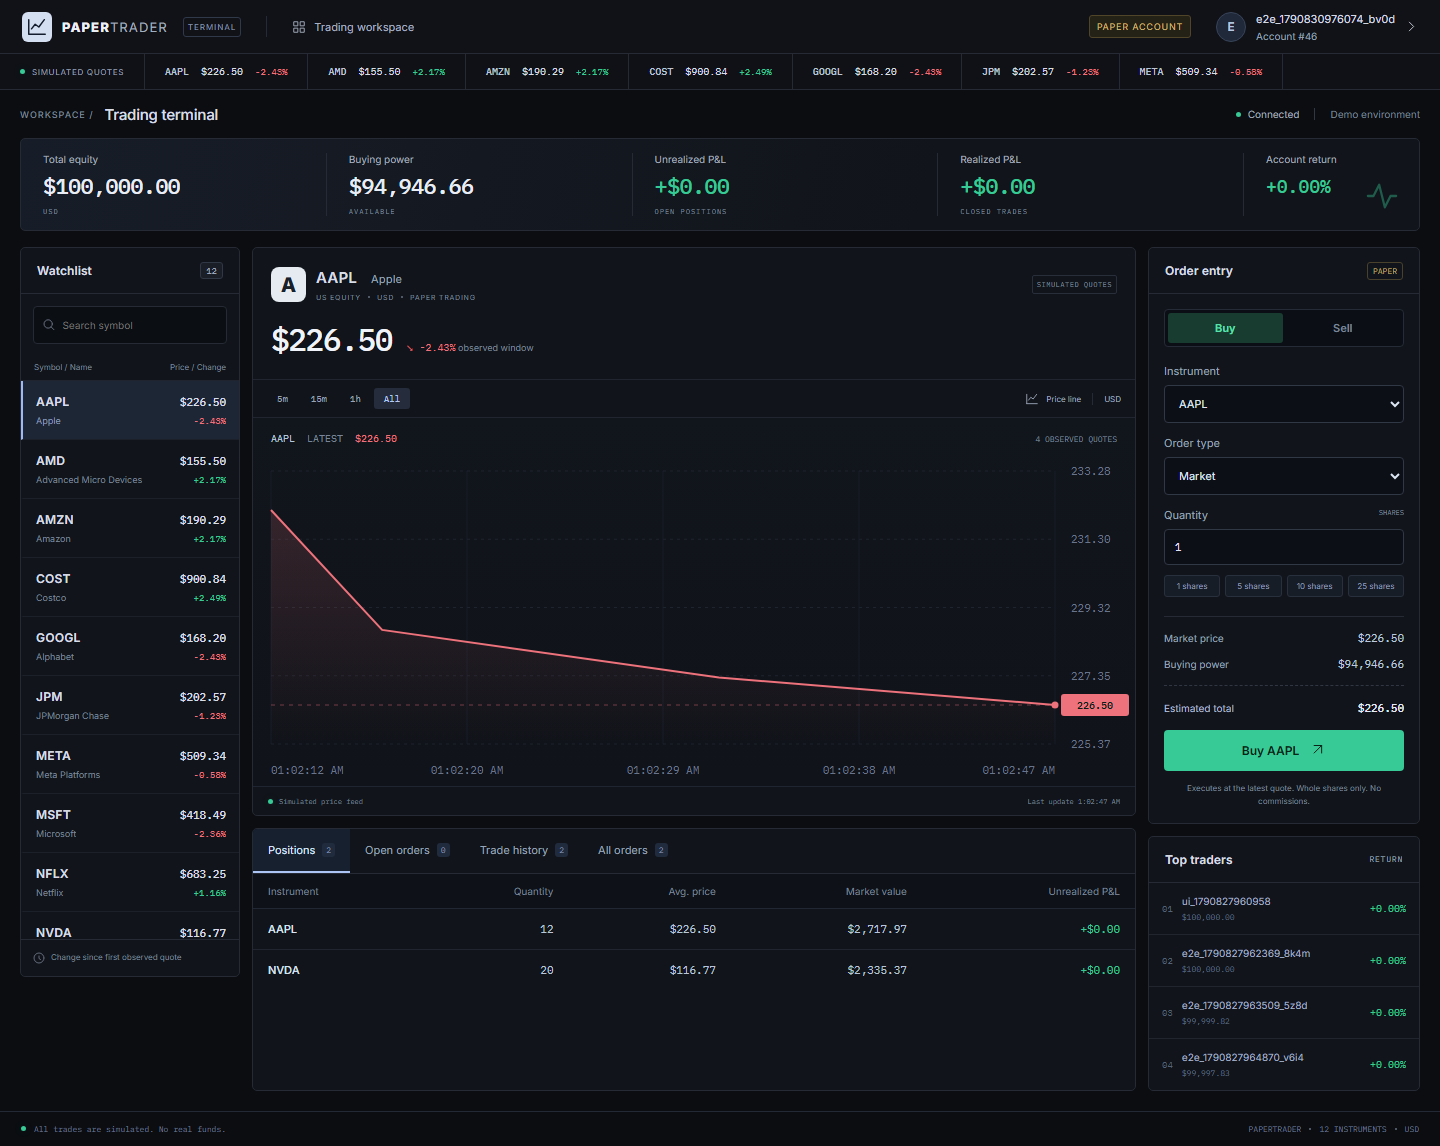
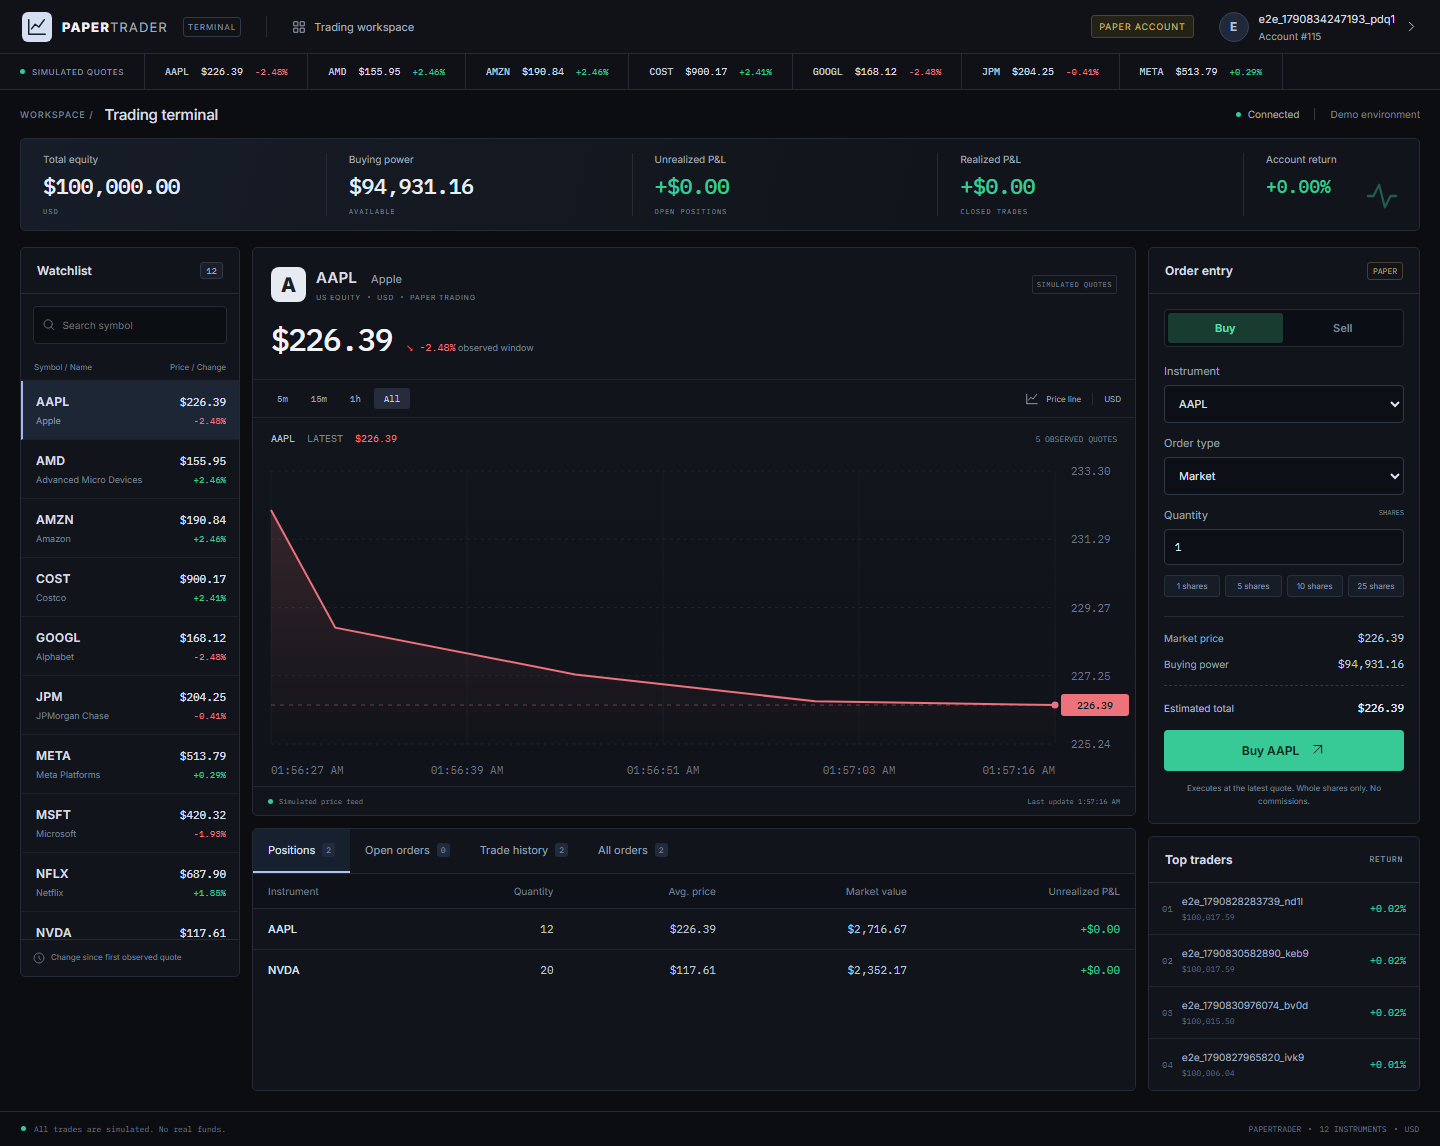
docs: refresh setup guidance and product screenshots

diff --git a/README.md b/README.md
@@ -1,16 +1,23 @@
-# paper-trader
+# PaperTrader
 
-A local paper-trading desk built with Java 21, Spring Boot, Postgres, and React. Place market and limit orders, watch fills arrive in two browser tabs, and track realized and unrealized P&L.
+[![Build and test](https://github.com/nishantshah0/paper-trader/actions/workflows/ci.yml/badge.svg?branch=main)](https://github.com/nishantshah0/paper-trader/actions/workflows/ci.yml) · [MIT license](LICENSE)
 
-**Simulation only.** No brokerage connection, no real funds, and no real orders. The default feed uses simulated prices. Optional Finnhub mode uses provider quotes and rejects execution against stale prices.
+A local paper-trading simulator with a React terminal, a Spring Boot execution engine, and PostgreSQL. Practice market and limit orders with virtual cash, watch fills update across browser tabs, and track realized and unrealized P&L.
+
+**No real money or brokerage connection.** The default feed generates simulated prices. Optional Finnhub mode uses provider quotes and refuses execution against stale prices. Practice accounts are shared and unauthenticated; this project is intended for local use.
 
 ![PaperTrader home page](docs/home.png)
 
-[View the trading terminal](docs/dashboard.png)
+<details>
+<summary>Trading terminal</summary>
 
-## Run the complete app
+![PaperTrader trading terminal](docs/dashboard.png)
 
-Install Docker Desktop, start its engine, then run:
+</details>
+
+## Quick start
+
+With Docker Desktop's engine running:
 
 ```bash
 git clone https://github.com/nishantshah0/paper-trader.git
@@ -18,34 +25,42 @@ cd paper-trader
 docker compose --profile app up --build -d --wait
 ```
 
-Open **http://localhost:8080** for the home page, including the market overview, platform details, getting-started guide, and FAQ. Choose **Open practice account** to open account setup directly, or **Launch terminal** to resume trading at **http://localhost:8080/terminal**. Create a lowercase account name to receive $100,000 in synthetic cash. Keep the account ID to reopen it in another browser. The first image build downloads Java and Node dependencies and can take several minutes.
+Open **http://localhost:8080**. Choose **Open practice account**, enter a lowercase account name, and receive $100,000 in virtual funds. Keep the account ID to reopen it later. The terminal is at **http://localhost:8080/terminal**.
 
-The terminal has a searchable watchlist, chart crosshair and time ranges, quantity shortcuts, and keyboard-accessible activity tabs. Recent chart samples survive browser refreshes; the server keeps up to 240 observed quotes per symbol in memory and clears them on application restart. No historical prices are fabricated.
-
-The dashboard includes a watchlist, interactive price chart with recent observed history, order ticket, positions, open orders and cancellation, trade history, and a leaderboard ranked by percentage return. Prices update every 15 seconds in demo mode; the matcher checks open orders every second.
+The first build downloads Java and Node dependencies. The app and database bind to loopback. Stop them while keeping account data with:
 
 ```bash
-# Stop the app and database; keep account data in the named volume.
 docker compose --profile app down
 ```
 
-This is a **shared local demo without authentication**. Anyone with access can view and trade on any account ID. Compose binds both ports to loopback. Add authentication and authorization before exposing it publicly.
+## Features
 
-## Order behavior
+- Dark home page with current quote previews, direct account setup, and a guide to the simulator.
+- Trading terminal with a searchable watchlist, chart crosshair and time ranges, order ticket, and keyboard-accessible activity tabs.
+- Market and limit orders, cancellation, cash/position validation, and account-scoped idempotency keys.
+- Scheduled execution and committed-order notifications over STOMP WebSockets, with reconnect resynchronization and a polling fallback.
+- Portfolio value, realized/unrealized P&L, execution history, and a leaderboard ranked by return percentage.
+- Durable open orders that resume after an application restart. Recent chart data holds up to 240 observed quotes per symbol; it survives browser refreshes and resets on server restart.
 
-- Market orders execute immediately at the cached quote.
-- Buy limits fill when the quote is at or below the limit; sell limits fill at or above it. A marketable limit executes immediately.
-- Fills are whole-order, whole-share, long-only, with no slippage, commissions, or liquidity modeling. This is a quote-triggered simulator, not an exchange matching buyers against sellers.
-- Open orders **do not reserve cash or shares**. Placement checks resources, then execution checks again. A resting order that becomes unfunded is marked `REJECTED`, without a trade or balance change.
-- The account row lock serializes placement, matching, and cancellation. Cash, positions, orders, and trades commit together. A unique constraint allows only one fill per order.
-- An optional `Idempotency-Key` header makes retries safe. Same account + key + payload returns the original order; a different payload returns 409. The dashboard retains its key when a request fails so a retry cannot duplicate an uncertain fill.
-- Postgres is the durable order book. The matcher reloads open orders in creation/ID order each tick, so restart recovery needs no separate cache rebuild.
+## Execution rules
 
-See [architecture and tradeoffs](docs/architecture.md).
+A market order fills at the cached quote. A buy limit fills at or below its limit; a sell limit fills at or above it. Marketable limits execute immediately; the scheduler checks resting orders every second.
 
-## Optional provider quotes
+Fills are whole-order, whole-share, and long-only. Open orders do **not** reserve cash or shares. Placement checks resources, and execution checks again. A resting order that becomes unfunded is marked `REJECTED` without a trade or balance change.
 
-Copy `.env.example` to `.env` and set:
+The account row lock serializes placement, matching, and cancellation. Cash, positions, order status, and the trade row commit together. Postgres is the order book; a unique constraint prevents duplicate fills. Reusing an `Idempotency-Key` with the same account and payload returns the original order; a changed payload returns 409.
+
+This is a quote-triggered simulator. It does not model user-to-user exchange matching, partial fills, slippage, commissions, shorting, or liquidity. See [architecture and tradeoffs](docs/architecture.md).
+
+## Quote modes
+
+| Mode             | Behavior                                                             |
+| ---------------- | -------------------------------------------------------------------- |
+| `demo` (default) | Simulated price updates every 15 seconds, clearly labeled in the UI. |
+| `static`         | Configured prices remain unchanged for deterministic experiments.    |
+| `finnhub`        | Server-side provider quotes. Requires your own API key.              |
+
+For Finnhub, copy `.env.example` to `.env` and set:
 
 ```dotenv
 FEED_MODE=finnhub
@@ -53,77 +68,83 @@ FINNHUB_API_KEY=your_key
 FEED_INTERVAL_MS=15000
 ```
 
-Recreate the app with the same Compose command. The key stays on the server and is not included in browser code or logs. The quote adapter calls [Finnhub's quote endpoint](https://finnhub.io/docs/api/quote). Twelve symbols at the default interval use up to 48 requests per minute; choose an interval appropriate for your provider plan.
+Recreate the app with the Quick start Compose command. Keys remain server-side. The adapter calls [Finnhub's quote endpoint](https://finnhub.io/docs/api/quote); twelve symbols at the default interval use up to 48 requests per minute. Set the interval to fit your provider plan.
 
-Live mode never executes at seed prices. A quote must have a provider timestamp within the last 120 seconds. Provider errors retain the previous quote; stale quotes remain visible but cannot execute orders. This deliberately means trading can be unavailable outside market hours. `FEED_MODE=static` keeps seed prices unchanged for deterministic manual experiments.
-
-Live provider access requires your own key; automated tests use local quotes and do not contact Finnhub.
+Live mode never executes against seed prices. Provider timestamps must be within the last 120 seconds. Errors retain the last quote, but stale prices cannot execute orders, including outside market hours. Automated tests do not contact Finnhub.
 
 ## Development
 
-Requirements: JDK 21, Docker, Node 22, and npm. Maven is included through the wrapper.
+Use **JDK 21**, **Node 22**, npm, and Docker. Maven is supplied by the wrapper; `.nvmrc` records the Node version.
 
 ```bash
-# Backend; Spring Boot starts the Compose database automatically.
+# Backend: Spring Boot starts the Compose database.
 ./mvnw spring-boot:run
 
-# In another terminal; Vite proxies REST and WebSocket requests to port 8080.
+# Frontend, in another terminal:
 cd frontend
 npm ci
 npm run dev
 ```
 
-On Windows use `.\mvnw.cmd` instead of `./mvnw`. Open Vite's displayed URL for frontend development. Stop a packaged app container before starting the backend locally so both do not claim port 8080.
+On Windows, use `.\mvnw.cmd` instead of `./mvnw`. Open Vite's displayed URL; it proxies REST and WebSocket traffic to port 8080. Stop the packaged app container before starting the backend locally.
 
 ## Verification
 
 ```bash
-./mvnw verify                       # Unit + real Postgres integration tests
+./mvnw verify
 cd frontend
 npm ci
 npm run format:check
 npm run build
 npx playwright install chromium
-npm test                           # Requires the complete app on localhost:8080
+npm test
 ```
 
-Set `E2E_BASE_URL` to test another local instance. Browser tests create their own synthetic accounts; use a disposable database when a clean leaderboard matters.
+Backend tests use real Postgres through Testcontainers. Browser tests require the complete app at `http://127.0.0.1:8080`; set `E2E_BASE_URL` for another local instance. They create synthetic accounts, so use a disposable database when a clean practice environment matters.
 
-Tests cover market execution, limit crossings, scheduled fills, cancellation, rejected orders, concurrent spending, duplicate retries, fill/cancel races, stale quotes, schema migrations, P&L, and two-tab WebSocket delivery. Browser checks include desktop and mobile layouts, home-to-terminal navigation, instrument links, direct route refreshes, and the mobile menu/FAQ. GitHub Actions runs the backend suite, builds the complete Docker app, and runs the browser suite.
+Coverage includes scheduled limit fills, double-spend and fill/cancel races, idempotent retries, stale quotes, migrations, P&L, home/terminal navigation, account persistence, responsive layouts, and two-tab WebSocket delivery. CI runs on pull requests and main, and cancels obsolete runs on the same ref.
 
 ## API
 
-Bodies are JSON; errors use RFC 9457 problem details. All values are USD. Cash uses decimal cents; prices and average costs use four decimal places.
+All bodies are JSON. Errors use RFC 9457 problem details. Cash uses decimal cents; prices and average costs use four decimal places. Values are USD.
 
-| Method | Path | Purpose |
-| --- | --- | --- |
-| POST | `/api/accounts` | Create a practice account |
-| GET | `/api/accounts/{id}` | Cash and starting balance |
-| GET | `/api/accounts/{id}/portfolio` | Positions, value, and P&L |
-| POST | `/api/accounts/{id}/orders` | Place a market or limit order; optional Idempotency-Key |
-| GET | `/api/accounts/{id}/orders?status=OPEN` | List orders; status is optional |
-| GET | `/api/accounts/{id}/orders/{orderId}` | One order |
-| DELETE | `/api/accounts/{id}/orders/{orderId}` | Cancel an open order |
-| GET | `/api/accounts/{id}/trades` | Fills, newest first |
-| GET | `/api/quotes`, `/api/quotes/{symbol}` | Cached quotes and timestamps |
-| GET | `/api/quotes/status` | Feed mode |
-| GET | `/api/quotes/history` | Up to 240 observed quotes per symbol |
-| GET | `/api/leaderboard` | Top 20 by return percentage |
-| GET | `/actuator/health` | Health check |
+| Method | Path                                    | Purpose                                  |
+| ------ | --------------------------------------- | ---------------------------------------- |
+| POST   | `/api/accounts`                         | Create a practice account                |
+| GET    | `/api/accounts/{id}`                    | Cash and starting balance                |
+| GET    | `/api/accounts/{id}/portfolio`          | Positions, value, and P&L                |
+| POST   | `/api/accounts/{id}/orders`             | Place an order; optional Idempotency-Key |
+| GET    | `/api/accounts/{id}/orders?status=OPEN` | Orders; status is optional               |
+| GET    | `/api/accounts/{id}/orders/{orderId}`   | One order                                |
+| DELETE | `/api/accounts/{id}/orders/{orderId}`   | Cancel an open order                     |
+| GET    | `/api/accounts/{id}/trades`             | Fills, newest first                      |
+| GET    | `/api/quotes`, `/api/quotes/{symbol}`   | Cached quotes and timestamps             |
+| GET    | `/api/quotes/status`                    | Feed mode                                |
+| GET    | `/api/quotes/history`                   | Up to 240 observed quotes per symbol     |
+| GET    | `/api/leaderboard`                      | Top 20 by return percentage              |
+| GET    | `/actuator/health`                      | Health check                             |
 
 Example limit-order body:
 
 ```json
-{"symbol":"AAPL","side":"BUY","type":"LIMIT","quantity":2,"limitPrice":225.50}
+{
+    "symbol": "AAPL",
+    "side": "BUY",
+    "type": "LIMIT",
+    "quantity": 2,
+    "limitPrice": 225.5
+}
 ```
 
-STOMP endpoint: `/ws`. Subscribe to `/topic/quotes` and `/topic/accounts/{id}`. Account messages invalidate portfolio/order/trade views after commit. Clients can subscribe but cannot publish broker messages. The dashboard resynchronizes on reconnect and uses a 15-second polling fallback.
+STOMP endpoint: `/ws`. Subscribe to `/topic/quotes` and `/topic/accounts/{id}`. Account events trigger portfolio/order/trade refreshes after commit. Browser clients cannot publish broker messages.
 
-## Scope
+## Limitations
 
-The original four-stage roadmap is implemented: core REST domain, scheduled limit execution and price feeds, real-time React dashboard, and packaging/CI/idempotency. Two design choices differ from the initial sketch: a durable database book replaces the in-memory book, and the existing pessimistic account lock is retained instead of adding optimistic locking.
+There is no authentication or account-level authorization. Account IDs are not passwords. Add an identity and authorization layer before public deployment. Corporate actions, exchange calendars, persistent historical prices, and distributed messaging are outside this demo. The leaderboard scans accounts, and order lists are unpaginated; this is designed for a small local practice environment.
 
-Intentionally outside this demo: authentication, partial fills, shorting, order reservations, exchange calendars, corporate actions, persistent historical chart storage, and distributed broker deployment. The leaderboard scans accounts and order lists are unpaginated; this implementation targets a small local practice environment.
+## Contributing
+
+See [CONTRIBUTING.md](CONTRIBUTING.md) for setup, checks, and change guidelines. Use the repository's issue forms for reproducible bugs and focused feature requests.
 
 ## License
 

diff --git a/docs/architecture.md b/docs/architecture.md
@@ -70,4 +70,4 @@ JUnit/Testcontainers exercises real Postgres migrations and transactional behavi
 
 The root route serves the product home page. The trading workspace lives at `/terminal`; `/terminal/` is also supported. The backend forwards only these explicit terminal routes to the bundled index, so direct navigation and refresh work without swallowing unknown API or asset routes. The terminal logo returns home. Instrument links pass a validated symbol query parameter, and the saved practice account remains in local storage across navigation.
 
-The home page uses a separate light navy-and-white layout with live cache snapshots in a semantic market table. Account-opening links use `/terminal?setup=1`; successful account selection clears that parameter so refreshes resume the selected account instead of reopening setup.
+The home page uses a dark charcoal layout with blue accents with live cache snapshots in a semantic market table. Account-opening links use `/terminal?setup=1`; successful account selection clears that parameter so refreshes resume the selected account instead of reopening setup.
